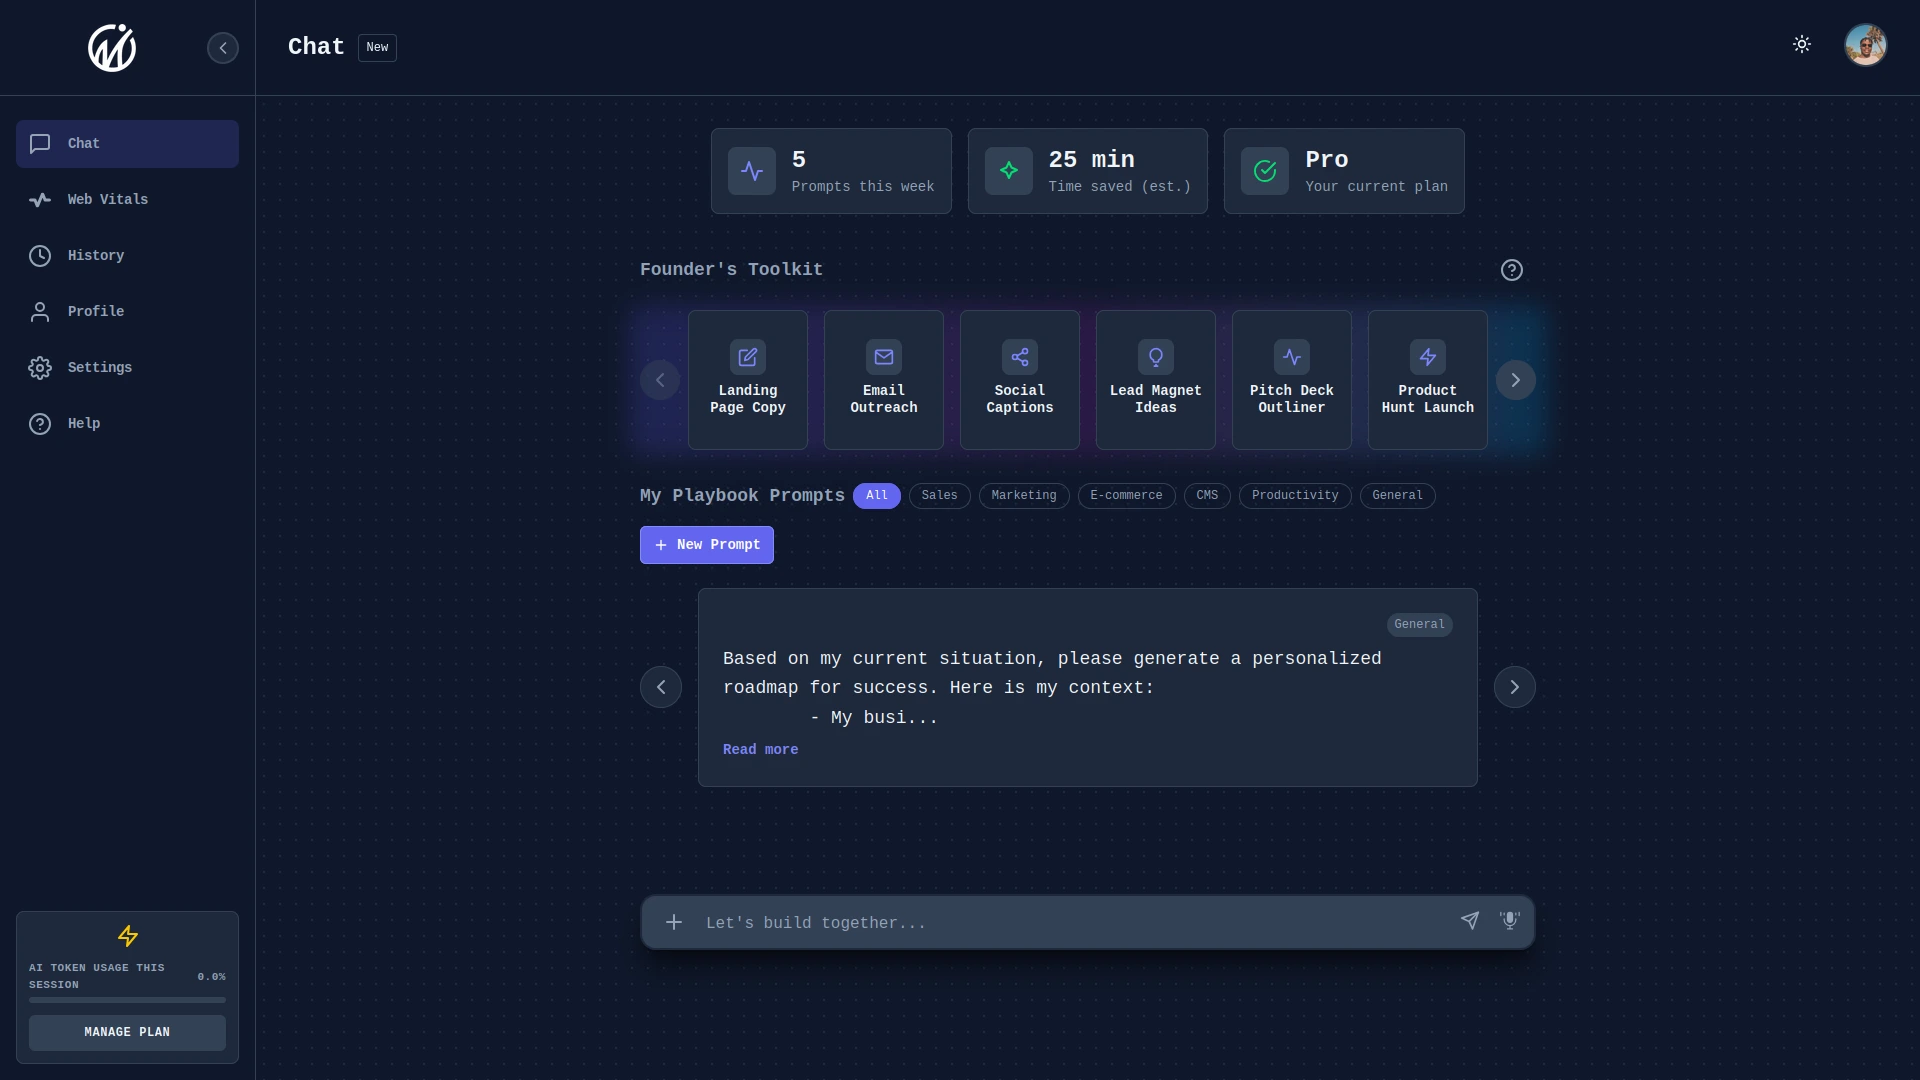
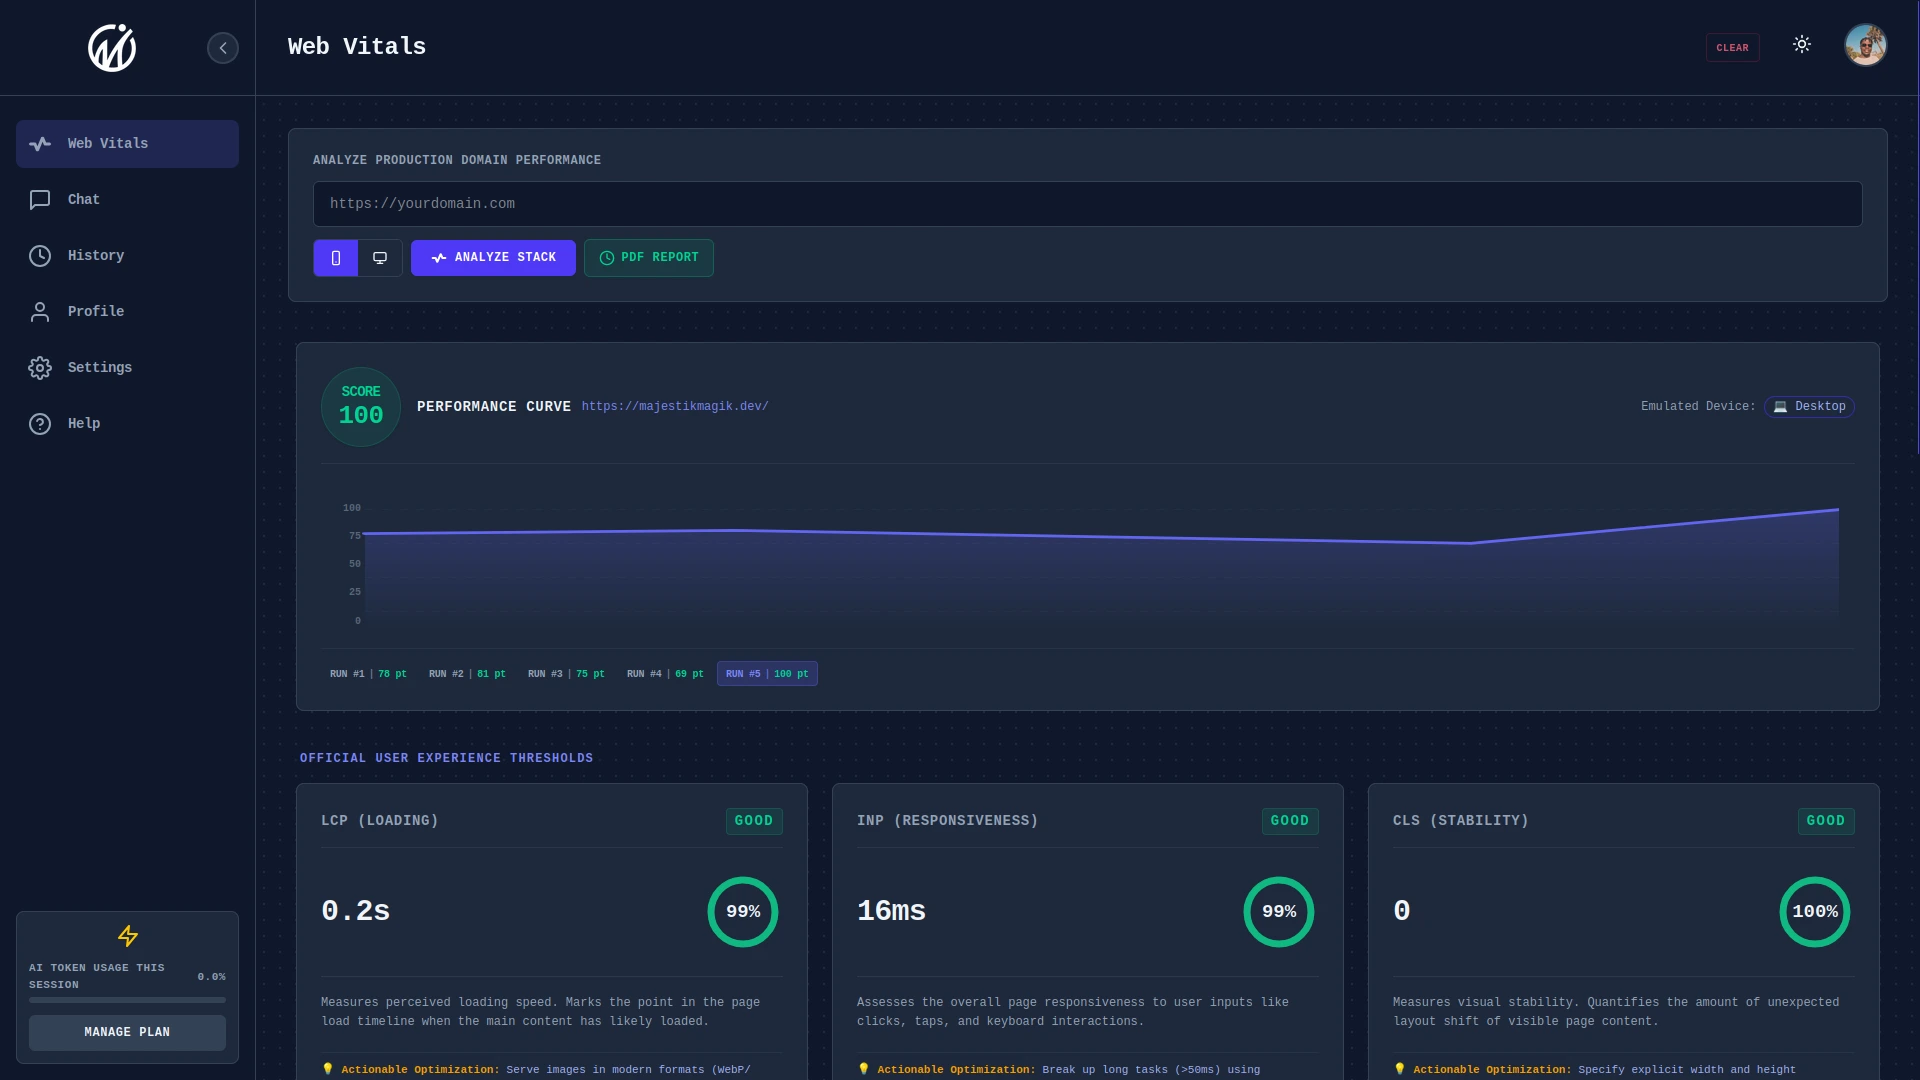
feat: Update the hero section to promote the SEO engine on Pivot Quest.

diff --git a/src/app/components/HeroSection.tsx b/src/app/components/HeroSection.tsx
@@ -35,7 +35,7 @@ const HeroSection: React.FC<HeroSectionProps> = () => {
         {/* Floating Pill Badge */}
         <div className="mb-6 inline-flex items-center gap-2 rounded-full border border-indigo-500/30 bg-indigo-500/10 px-4 py-1.5 text-xs font-semibold uppercase tracking-widest text-indigo-300 backdrop-blur-md scroll-animate opacity-90 ease-in-out duration-500">
           <span className="h-2 w-2 rounded-full bg-green-400 animate-pulse" />
-          The Gamified AI Co-Founder
+          ENTERPRISE PERFORMANCE & SEO ENGINE
         </div>
 
         {/* Massive Apple-Inspired Header Stack */}
@@ -48,7 +48,7 @@ const HeroSection: React.FC<HeroSectionProps> = () => {
 
         {/* Elegant Centered Description */}
         <p className="max-w-3xl mx-auto mb-10 text-base md:text-xl text-slate-400 font-sans leading-relaxed scroll-animate opacity-90 ease-in-out duration-500">
-          Your autonomous AI Co-Founder that turns business chaos into clarity—keeping your strategy sharp, your team aligned, and your execution on track.
+          Audit Core Web Vitals, track site speed, and generate SEO roadmaps in seconds.
         </p>
 
         {/* Clean Call To Action Layer */}
@@ -59,10 +59,10 @@ const HeroSection: React.FC<HeroSectionProps> = () => {
             rel="noopener noreferrer"
             className="inline-block bg-indigo-600 hover:bg-indigo-400 text-white font-mono font-bold uppercase tracking-wider text-xs py-4 px-10 rounded-full transition-all duration-300 transform hover:scale-105 shadow-[0_0_40px_rgba(99,102,241,0.65)] hover:shadow-[0_0_65px_rgba(99,102,241,0.95)] border border-indigo-400/30"
           >
-            Start Your Quest
+            RUN A FREE SITE AUDIT
           </a>
           <p className="mt-3 text-xs text-slate-500 tracking-wide">
-            3 days free, then flexible tiers &nbsp;·&nbsp; Built for solo founders, by a solo founder
+            Built for founders, by a solo founder
           </p>
         </div>
 
@@ -95,7 +95,7 @@ const HeroSection: React.FC<HeroSectionProps> = () => {
 
         {/* Feature Chips */}
         <div className="mt-10 flex flex-wrap items-center justify-center gap-2">
-          {['Powered by Majestik Core API', 'Sub-Second Latency', 'Contextual Intelligence'].map((chip) => (
+          {['Powered by Majestik Core', 'Sub-Second Latency', 'Contextual Intelligence'].map((chip) => (
             <span
               key={chip}
               className="text-xs font-mono text-indigo-300/70 bg-indigo-500/10 border border-indigo-500/20 px-3 py-1.5 rounded-full tracking-wide"
